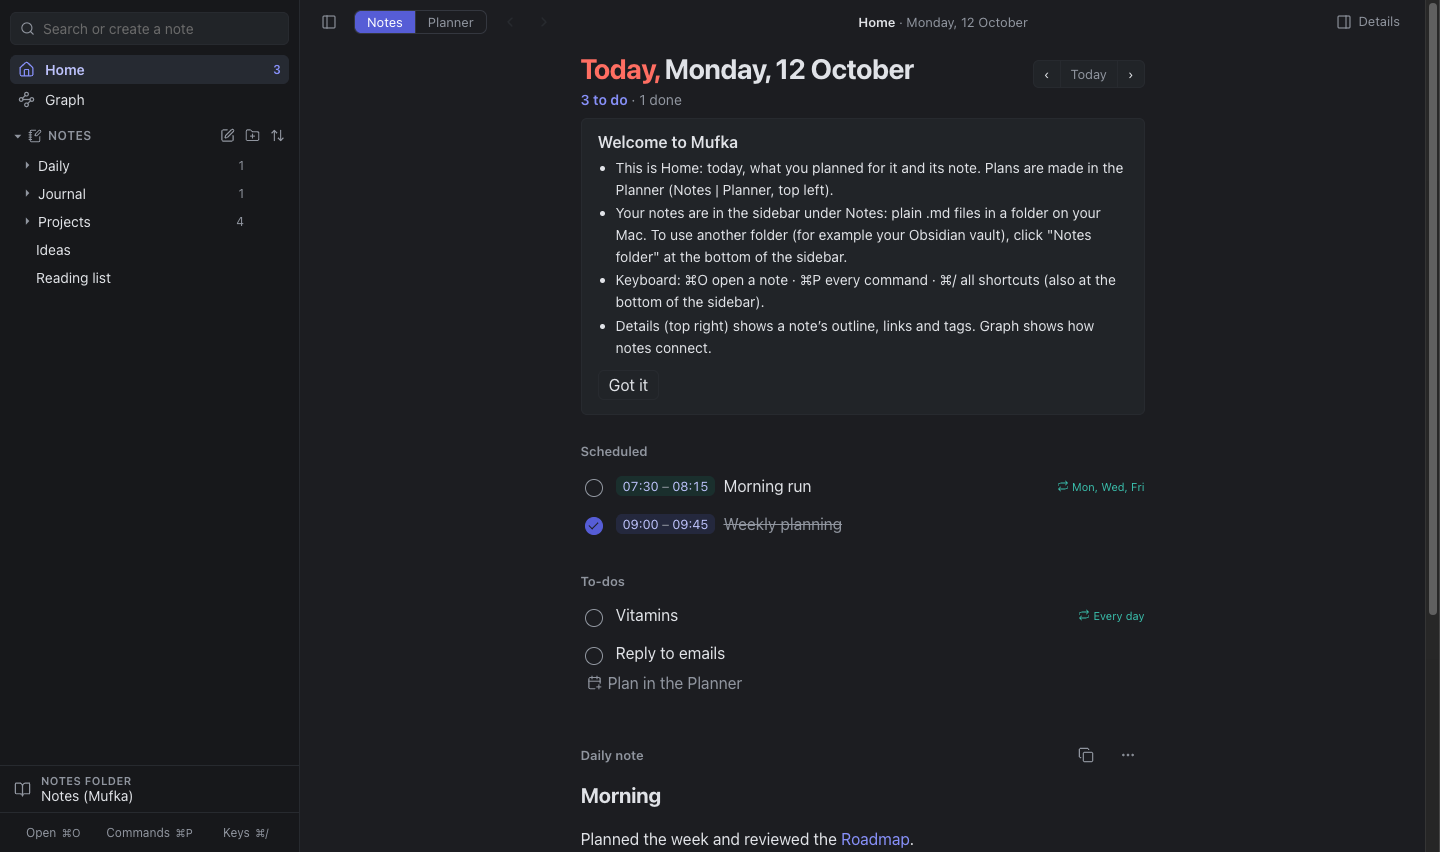
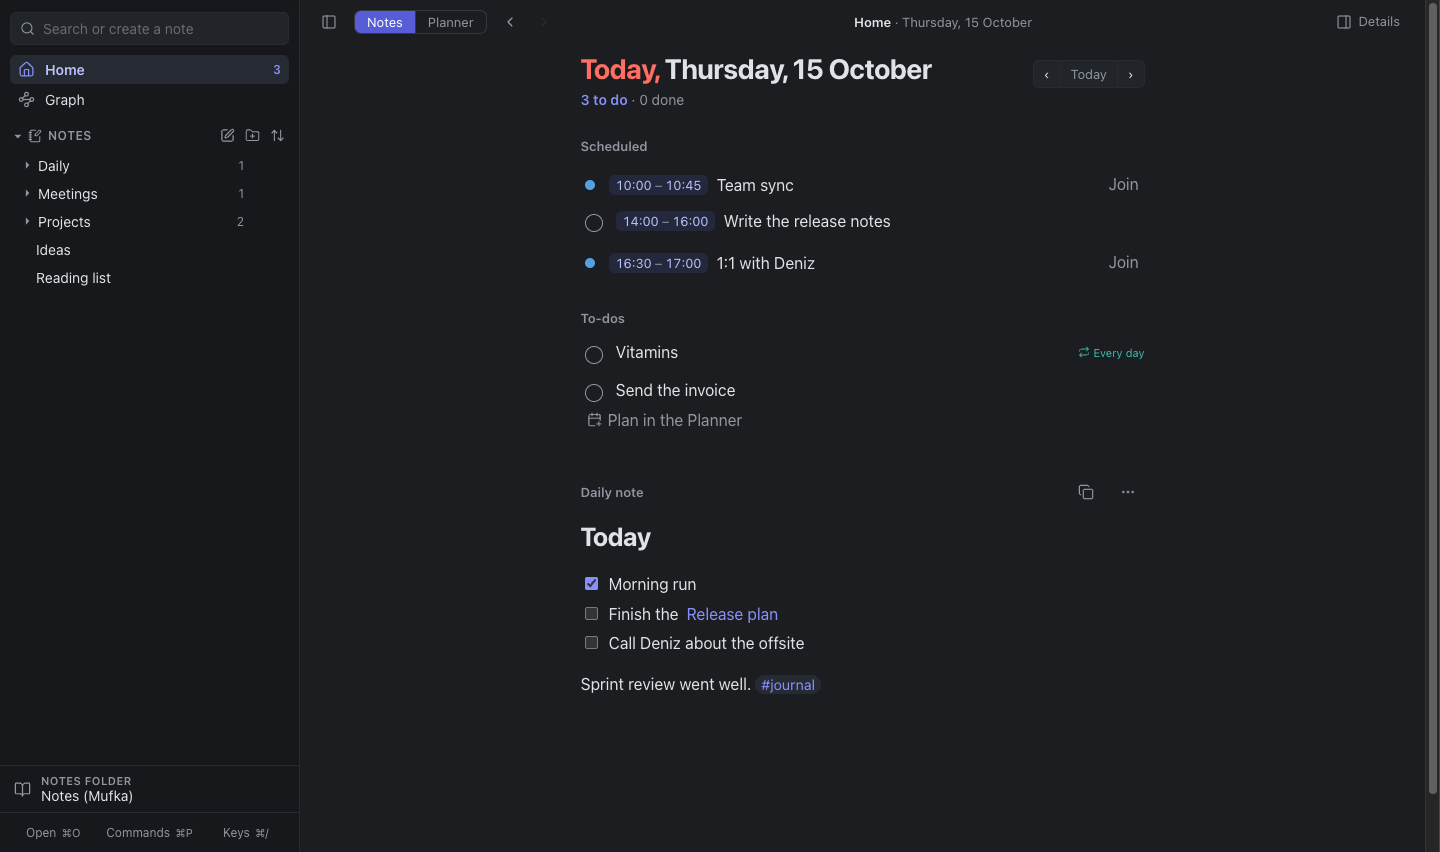
Show the calendar in the README with new screenshots

diff --git a/README.md b/README.md
@@ -6,10 +6,11 @@
 
 **Your week and your notes, in one calm Mac app.**
 
-A week planner with times and repeating plans, and an Obsidian‑like Markdown
-notes vault with links, backlinks and a graph — local, private, no account.
+A week planner with times, repeating plans and your Outlook / Teams calendar,
+and an Obsidian‑like Markdown notes vault with links, backlinks and a graph —
+local and private.
 
-![The Planner: the week with to-dos on top and an hour grid below](docs/screenshots/planner.png)
+![The Planner: the week with to-dos on top, an hour grid below and calendar meetings in their colour](docs/screenshots/planner.png)
 
 </div>
 
@@ -36,20 +37,28 @@ Mufka has two modes, switched at the top left (**Notes | Planner**, or ⌃Tab).
   and **Repeat** — every day, weekdays, every week, chosen days, or monthly.
 - **Repeating plans** look different (teal, dashed edge, ↻ and their rule), so
   "this happens every Tuesday" is visible at a glance.
-- **Missed** plans — not done after their time — turn red with a one-click
-  **→ Today**. Nothing moves on its own.
+- **Missed** plans — not done after their time — get a coral edge and a
+  one-click **→ Today**. Nothing moves on its own.
+- **Your calendar in the week:** connect **Microsoft (Outlook, Teams)** in
+  **Settings** (⌘,) and your meetings appear next to your plans, in each
+  calendar's colour; all-day events sit on top. Click one for when, where and
+  who, and **Join meeting** for Teams, Zoom or Meet links. Read-only: Mufka
+  never changes your calendar. Choose which calendars to show; ↻ refreshes.
 - Move plans by **dragging** (to another day or time; drag the bottom edge to
   change the end), with the ⋯ menu, or with the keyboard (⌥←/→ a day, ⌥↑/↓ 15
   minutes). Every change can be undone with ⌘Z.
+
+<p align="center"><img src="docs/screenshots/calendar-event.png" width="85%" alt="A Teams meeting from the calendar, with Join meeting"></p>
 
 <p align="center"><img src="docs/screenshots/new-plan.png" width="85%" alt="New plan: title, day, time and repeat on chosen days"></p>
 
 ### Home — today
 
-Today's date, what you planned for it (tick things off here) and the day's
-note. Nothing planned yet? Home offers to open the Planner.
+Today's date, what you planned for it and today's meetings in time order
+(tick plans off here, **Join** a meeting), and the day's note. Nothing planned
+yet? Home offers to open the Planner.
 
-<p align="center"><img src="docs/screenshots/home.png" width="85%" alt="Home: today's plans and the daily note"></p>
+<p align="center"><img src="docs/screenshots/home.png" width="85%" alt="Home: today's plans and meetings, and the daily note"></p>
 
 ### Notes — an Obsidian-like vault
 
@@ -114,10 +123,14 @@ you delete them.
 
 ## Your notes and your data
 
-Everything stays on your Mac; there is no account and no server. The one
-exception is a Wispr Flow connection you turn on yourself: Mufka then reads
-your meetings from Wispr (it never sends your notes anywhere). The sign-in is
-kept encrypted in your Keychain; **Disconnect** in Settings forgets it.
+Everything stays on your Mac; there is no account and no server. The exceptions
+are the connections you turn on yourself in **Settings**: your **Microsoft
+calendar** (Mufka reads your events; it asks only for calendar read access) and
+**Wispr Flow** (Mufka reads your meetings). Mufka never sends your notes or
+plans anywhere. Sign-ins are kept encrypted in your Keychain; **Disconnect**
+forgets them.
+
+<p align="center"><img src="docs/screenshots/settings.png" width="70%" alt="Settings: the Microsoft calendar and Wispr Flow connections"></p>
 
 | What | Where |
 |---|---|
@@ -138,7 +151,7 @@ kept encrypted in your Keychain; **Disconnect** in Settings forgets it.
 | ⌘F | Search |
 | ⌘G · ⇧⌘G | Graph · local graph |
 | ⌘E | Edit a note's raw Markdown |
-| ⌘, | Settings (Wispr Flow connection) |
+| ⌘, | Settings (calendar and Wispr Flow connections) |
 | ⇧⌘T | Insert a template |
 | ⌘[ · ⌘] | Back · forward |
 | ⌘\\ · ⇧⌘\\ | Sidebar · Details panel |
